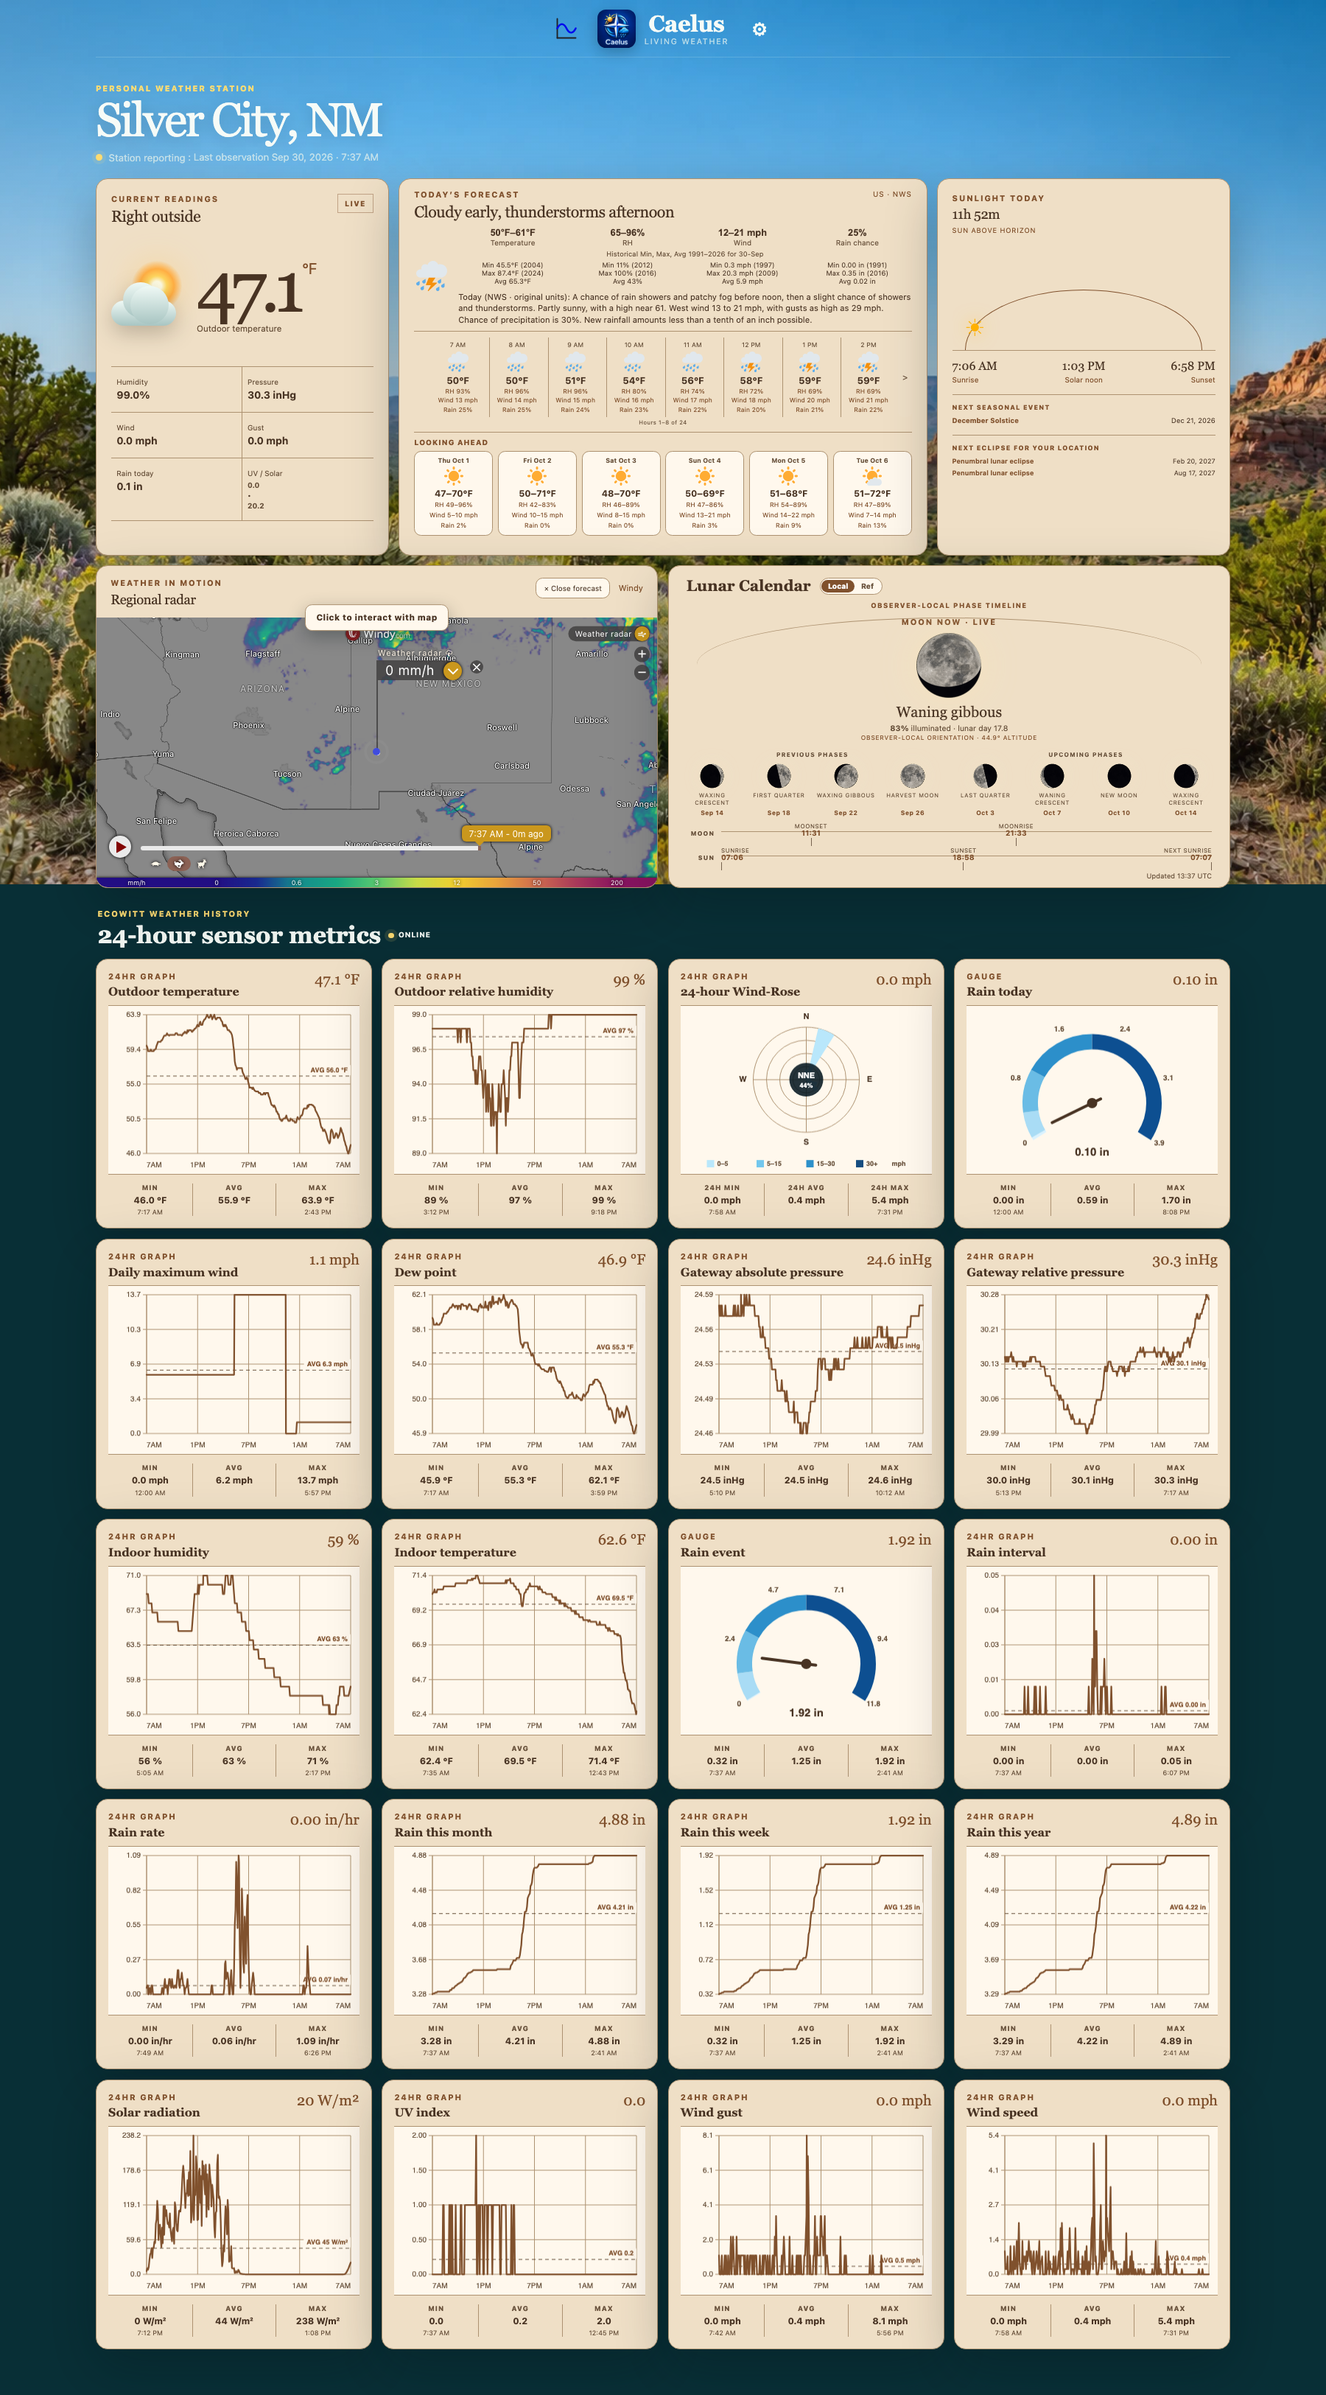
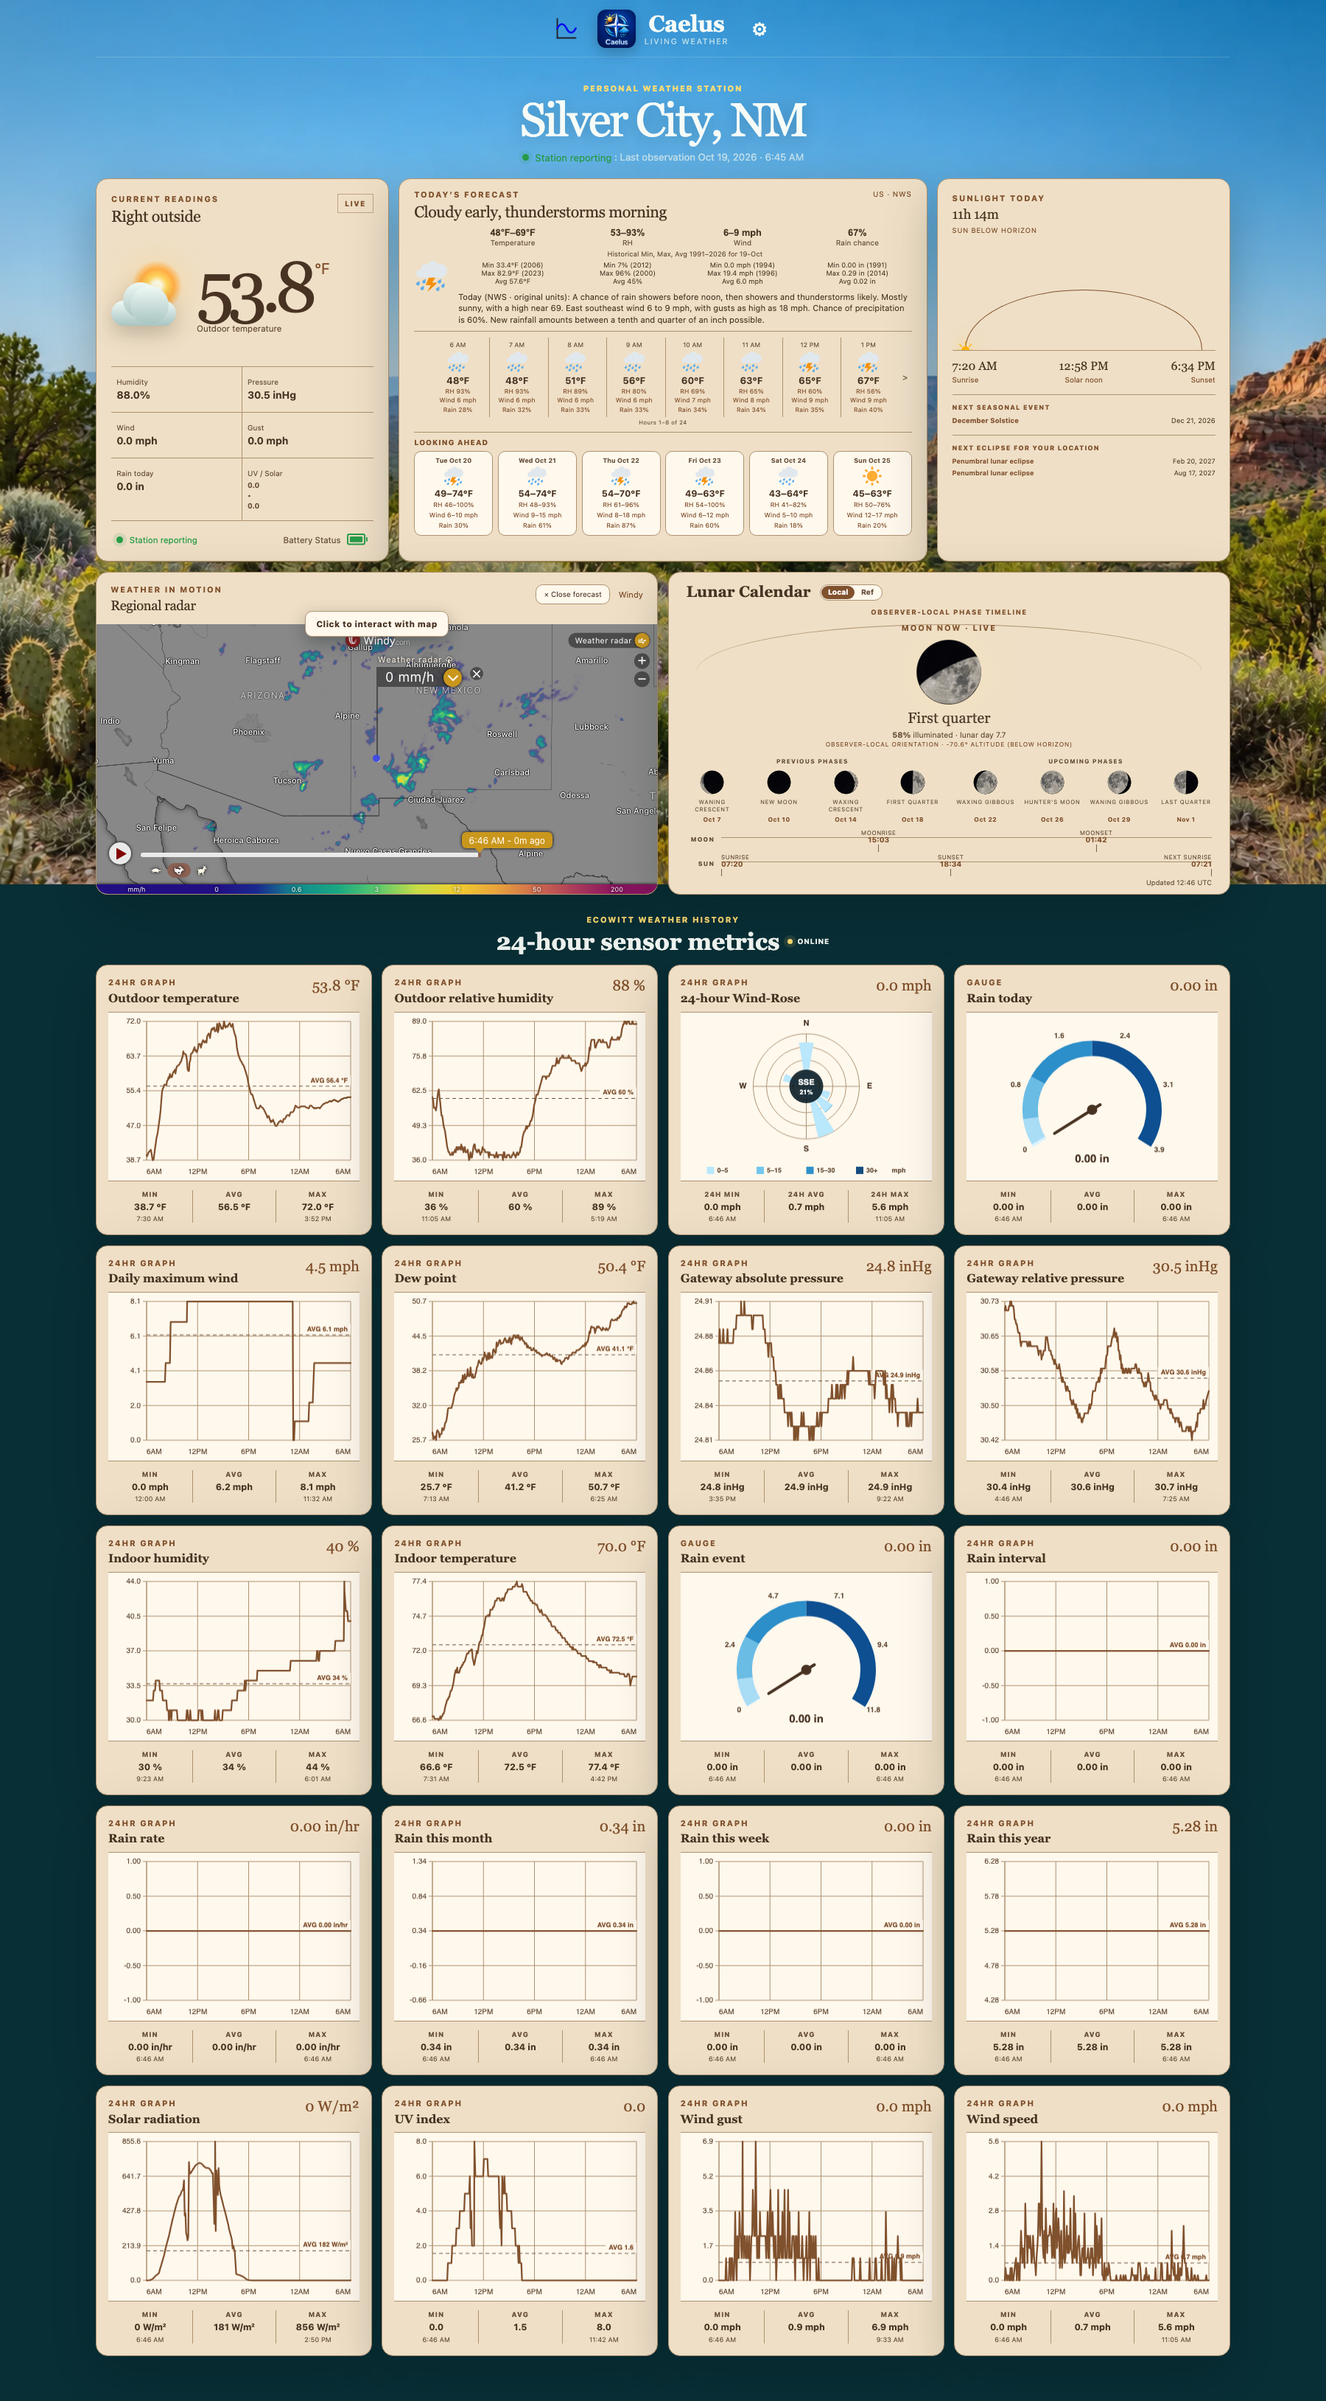
fix: protect gateway diagnostics and refresh dashboard presentation (#46)

diff --git a/static/styles.css b/static/styles.css
@@ -139,7 +139,8 @@ a { color: inherit; }
 .settings-trigger:hover { color: var(--accent); }
 
 .dashboard-shell { width: min(1540px, calc(100% - 3rem)); margin: 0 auto; padding: 2.2rem 0 3rem; }
-.station-intro { display: flex; align-items: end; justify-content: space-between; gap: 2rem; margin-bottom: 1.25rem; }
+.station-intro { display: flex; align-items: end; justify-content: center; gap: 2rem; margin-bottom: 1.25rem; text-align: center; }
+.station-intro > div { width: 100%; min-width: 0; }
 .eyebrow { margin: 0 0 0.35rem; color: var(--accent); font-size: 0.68rem; font-weight: 750; letter-spacing: 0.17em; text-transform: uppercase; }
 .station-intro h1 { margin: 0; font: 500 clamp(2rem, 4vw, 4rem)/0.98 Georgia, serif; letter-spacing: -0.045em; text-shadow: 0 4px 24px rgba(0, 0, 0, 0.2); }
 .station-subtitle { margin: 0.65rem 0 0; color: var(--muted); font-size: 0.83rem; }
@@ -421,8 +422,9 @@ a { color: inherit; }
 .map-row .lunar-timeline-footer > small { text-align: right; }
 .map-row .map-heading { flex-wrap: wrap; }
 .weather-history { padding: 0.85rem 0; }
-.weather-history-heading { display: flex; align-items: end; justify-content: space-between; gap: 1rem; margin-bottom: 0.85rem; padding: 0 0.15rem; }
-.weather-history-heading h2 { display: flex; align-items: center; flex-wrap: wrap; gap: 0.65rem; margin: 0.15rem 0 0; font: 600 clamp(1.4rem, 2.4vw, 2rem) Georgia, serif; }
+.weather-history-heading { display: flex; align-items: end; justify-content: center; gap: 1rem; margin-bottom: 0.85rem; padding: 0 0.15rem; text-align: center; }
+.weather-history-heading > div { width: 100%; min-width: 0; }
+.weather-history-heading h2 { display: flex; align-items: center; justify-content: center; flex-wrap: wrap; gap: 0.65rem; margin: 0.15rem 0 0; font: 600 clamp(1.4rem, 2.4vw, 2rem) Georgia, serif; }
 .sensor-online-status { display: inline-flex; align-items: center; gap: 0.4rem; color: var(--muted); font: 700 0.62rem/1 system-ui, sans-serif; letter-spacing: 0.08em; text-transform: uppercase; }
 .sensor-online-status .status-dot { width: 0.45rem; height: 0.45rem; }
 .sensor-online-status.is-online { color: var(--text); }

diff --git a/tests/test_routes.py b/tests/test_routes.py
@@ -1,4 +1,5 @@
 import io
+import logging
 from html import unescape
 from pathlib import Path
 from urllib.parse import urljoin
@@ -8,10 +9,12 @@ from fastapi.staticfiles import StaticFiles
 from fastapi.templating import Jinja2Templates
 from fastapi.testclient import TestClient
 from PIL import Image
+import pytest
 
 import caelus.routes as routes_module
 from caelus import __version__
 from caelus.astronomy import FULL_MOON_NAMES, moon_phase_context
+from caelus.gateway import EcowittGateway, EcowittGatewayError
 from caelus.routes import format_observation_time, register_routes
 from caelus.settings import AppSettings
 from caelus.theme_manager import ThemeManager
@@ -565,6 +568,67 @@ def test_ecowitt_mutations_require_csrf() -> None:
     )
 
     assert response.status_code == 403
+
+
+@pytest.mark.parametrize("endpoint", ["discover", "save"])
+def test_ecowitt_errors_keep_diagnostics_in_logs(endpoint, caplog) -> None:
+    diagnostic = "ConnectionError: private-gateway.example:8767 /private/operator/config"
+
+    class FailingGateway:
+        def discover(self, gateway_url):
+            raise EcowittGatewayError(diagnostic)
+
+        def discover_for_save(self, gateway_url):
+            raise EcowittGatewayError(diagnostic)
+
+    app = make_app()
+    app.state.gateway = FailingGateway()
+    original_url = app.state.settings.gateway_url
+    with caplog.at_level(logging.WARNING, logger="caelus.routes"):
+        response = TestClient(app).post(
+            f"/api/ecowitt/{endpoint}",
+            json={"gateway_url": "http://gateway.local", "csrf_token": "test-token"},
+        )
+    assert response.status_code == 400
+    assert response.json()["ok"] is False
+    assert "see server logs" in response.json()["error"]
+    for private_value in (diagnostic, "private-gateway.example", "/private/operator/config"):
+        assert private_value not in response.text
+    assert diagnostic in caplog.text
+    assert app.state.settings.gateway_url == original_url
+    assert app.state.poller.poll_calls == 0
+
+
+def test_ecowitt_status_hides_diagnostics_without_changing_private_state() -> None:
+    app = make_app()
+    gateway = EcowittGateway(app.state.settings)
+    app.state.gateway = gateway
+    diagnostic = "private-gateway.example /private/operator/config"
+    fields = ("last_error", "connection_error", "inventory_error")
+    gateway.last_status.update({field: diagnostic for field in fields})
+    client = TestClient(app)
+    response = client.get("/api/ecowitt/status")
+    assert response.status_code == 200
+    assert diagnostic not in response.text
+    for field in fields:
+        assert "See server logs" in response.json()[field]
+        assert gateway.last_status[field] == diagnostic
+    gateway.last_status.update({field: "" for field in fields})
+    cleared = client.get("/api/ecowitt/status").json()
+    assert all(cleared[field] == "" for field in fields)
+
+
+def test_manual_poll_requires_csrf_before_calling_poller() -> None:
+    app = make_app()
+    client = TestClient(app)
+    for data in ({}, {"csrf_token": "incorrect"}):
+        response = client.post("/poll", data=data, headers={"Origin": "https://untrusted.example"})
+        assert response.status_code == 403
+    assert app.state.poller.poll_calls == 0
+    response = client.post("/poll", data={"csrf_token": "test-token"})
+    assert response.status_code == 200
+    assert response.json()["status"] == "ok"
+    assert app.state.poller.poll_calls == 1
 
 
 def test_dashboard_tolerates_astronomy_payload_from_running_older_code(monkeypatch) -> None:

diff --git a/caelus/routes.py b/caelus/routes.py
@@ -1,5 +1,6 @@
 import asyncio
 import json
+import logging
 import secrets
 from dataclasses import fields, replace
 from datetime import datetime, timedelta, timezone
@@ -35,6 +36,7 @@ from caelus.theme_manager import (
 )
 
 GRAPH_RANGE_HOURS = {1, 6, 12, 24, 72, 168, 336, 696}
+logger = logging.getLogger(__name__)
 FAVICON_SVG = (
     Path(__file__).resolve().parents[1]
     / "static"
@@ -411,8 +413,12 @@ def register_routes(app: FastAPI) -> None:
             result = await asyncio.to_thread(
                 app.state.gateway.discover, payload.get("gateway_url")
             )
-        except EcowittGatewayError as exc:
-            return JSONResponse({"ok": False, "error": str(exc)}, status_code=400)
+        except EcowittGatewayError:
+            logger.warning("Ecowitt discovery failed", exc_info=True)
+            return JSONResponse(
+                {"ok": False, "error": "Could not discover the Ecowitt gateway. Check its address and connection; see server logs for details."},
+                status_code=400,
+            )
         return JSONResponse(result)
 
     @app.post("/api/ecowitt/save")
@@ -437,8 +443,12 @@ def register_routes(app: FastAPI) -> None:
             discovery = await asyncio.to_thread(
                 discover_for_save, payload.get("gateway_url")
             )
-        except EcowittGatewayError as exc:
-            return JSONResponse({"ok": False, "error": str(exc)}, status_code=400)
+        except EcowittGatewayError:
+            logger.warning("Ecowitt gateway validation before saving failed", exc_info=True)
+            return JSONResponse(
+                {"ok": False, "error": "Could not validate the Ecowitt gateway. Check its address and connection; see server logs for details."},
+                status_code=400,
+            )
 
         settings: AppSettings = app.state.settings
         candidate = replace(settings)
@@ -572,7 +582,10 @@ def register_routes(app: FastAPI) -> None:
         return Response(payload, media_type=content_type)
 
     @app.post("/poll")
-    async def poll_gateway() -> Dict[str, Any]:
+    async def poll_gateway(csrf_token: str = Form("")) -> Dict[str, Any]:
+        """Poll the gateway only after validating the browser mutation token."""
+        if not secrets.compare_digest(csrf_token, app.state.csrf_token):
+            raise HTTPException(status_code=403, detail="invalid CSRF token")
         reading = await asyncio.to_thread(app.state.poller.poll_once)
         if reading is None:
             return {"status": "error", "message": "gateway fetch failed"}

diff --git a/tests/test_gateway.py b/tests/test_gateway.py
@@ -275,11 +275,13 @@ def test_repeated_connection_failure_recovers_and_returns_to_direct_requests(mon
     assert gateway.fetch() == {}
     assert gateway.fetch() == {}
     assert not recovered
-    assert 'No route to host' in gateway.status()['last_error']
+    assert 'No route to host' in gateway.last_status['last_error']
+    assert 'No route to host' not in gateway.status()['last_error']
     assert gateway.fetch()['common_list']
     assert gateway.status()['state'] == 'online'
     assert gateway.status()['recovery_active']
-    assert 'No route to host' in gateway.status()['connection_error']
+    assert 'No route to host' in gateway.last_status['connection_error']
+    assert 'No route to host' not in gateway.status()['connection_error']
     assert recovered == ['get_livedata_info']
     # Another recovered poll must not reset the failed direct transport's count.
     assert gateway.fetch()['common_list']
@@ -311,8 +313,9 @@ def test_failed_recovery_keeps_retrying_and_reports_both_errors(monkeypatch):
         assert gateway.fetch() == {}
     status = gateway.status()
     assert status['state'] == 'offline'
-    assert 'LAN timed out' in status['last_error']
-    assert 'fresh-process recovery failed' in status['last_error']
+    assert 'LAN timed out' in gateway.last_status['last_error']
+    assert 'fresh-process recovery failed' in gateway.last_status['last_error']
+    assert status['last_error'] == 'Gateway request failed. See server logs for details.'
 
 
 def test_http_errors_do_not_launch_recovery_workers(monkeypatch):
@@ -332,7 +335,8 @@ def test_http_errors_do_not_launch_recovery_workers(monkeypatch):
     )
     for _ in range(4):
         assert gateway.fetch() == {}
-    assert '503 Service Unavailable' in gateway.status()['last_error']
+    assert '503 Service Unavailable' in gateway.last_status['last_error']
+    assert '503 Service Unavailable' not in gateway.status()['last_error']
 
 
 def test_inventory_pages_have_independent_recovery_counts(monkeypatch):

diff --git a/caelus/gateway.py b/caelus/gateway.py
@@ -464,9 +464,17 @@ class EcowittGateway:
         return self.discover(base_url)
 
     def status(self) -> dict[str, Any]:
-        """Return safe configured and runtime gateway status."""
+        """Return runtime status with fixed messages instead of private diagnostics."""
+        public_status = dict(self.last_status)
+        for field, message in {
+            "last_error": "Gateway request failed. See server logs for details.",
+            "connection_error": "Direct gateway connection failed. See server logs for details.",
+            "inventory_error": "Gateway sensor inventory is unavailable. See server logs for details.",
+        }.items():
+            if public_status.get(field):
+                public_status[field] = message
         return {
-            **self.last_status,
+            **public_status,
             "recovery_active": self.settings.gateway_enabled and any(
                 key.startswith(self.settings.gateway_url.rstrip("/") + "/")
                 for key in tuple(self._recovery_endpoints)
@@ -525,6 +533,8 @@ class EcowittGateway:
                     self.last_status["inventory_error"] = ""
                 except EcowittGatewayError as exc:
                     self.last_status["inventory"] = []
+                    if not self.last_status.get("inventory_error"):
+                        logger.warning("Ecowitt sensor inventory unavailable: %s", exc)
                     self.last_status["inventory_error"] = str(exc)
             if not reading or not any(value is not None for value in map_gateway_reading(
                 reading, rain_source=self.settings.gateway_rain_source

diff --git a/caelus/__init__.py b/caelus/__init__.py
@@ -1,1 +1,1 @@
-__version__ = "v0.26.292.1"
+__version__ = "v0.26.292.4"

diff --git a/README.md b/README.md
@@ -86,9 +86,11 @@ can still reach the gateway. The worker has an eight-second deadline and a
 returns to it automatically when it succeeds. HTTP errors and malformed data
 continue through normal polling retries.
 
-`/api/ecowitt/status` exposes `recovery_active`, the underlying `connection_error`,
-and `last_error` when recovery also fails. An active recovery path can still
-report the gateway online when it is receiving valid readings. Connection-loss
+`/api/ecowitt/status` exposes `recovery_active` and fixed summaries in
+`connection_error`, `inventory_error`, and `last_error` when those failures occur.
+Full exception diagnostics remain in server logs rather than browser responses.
+An active recovery path can still report the gateway online when it is receiving
+valid readings. Connection-loss
 and recovery transitions are logged without repeating an outage warning on
 every poll. For a default macOS installation, inspect
 `/Users/<username>/Caelus/data/desktop-launch.log`; saved settings and observations
@@ -99,6 +101,9 @@ Polling starts independently of optional service failures. Forecast warmup runs
 in the background so an unavailable provider cannot hold up server readiness;
 later forecast and historical-weather requests retry and retain available cached
 data. Shutdown stops polling even if another service fails during cleanup.
+
+Manual `POST /poll` requests require the dashboard's `csrf_token` form field,
+like other browser mutation requests.
 
 `/healthz` reports whether the polling task is running; use the gateway status
 and latest reading timestamp to assess data freshness. A disconnected gateway,

diff --git a/docs/user_guide.md b/docs/user_guide.md
@@ -8,7 +8,7 @@ Caelus is a local weather dashboard and history service for an Ecowitt-compatibl
 
 This guide is for day-to-day users. You do not need to understand Python, FastAPI, or SQLite to operate Caelus.
 
-The dashboard and Location, Station, and Data & Map screenshots were updated from a running Caelus station on September 30, 2026. Other screenshots, including the Mobile Operation graphics, were captured on September 9, 2026. The Location and Station screenshots use example coordinates and a documentation-only gateway address; enter your own values during setup. Your location, readings, gateway model, forecast, lunar view, and available metrics will differ.
+The dashboard overview and full-dashboard screenshots were updated from a running Caelus station on October 19, 2026, and show the centered title block and sensor heading. The remaining dashboard and Location, Station, and Data & Map screenshots were updated on September 30, 2026. Other screenshots, including the Mobile Operation graphics, were captured on September 9, 2026. The Location and Station screenshots use example coordinates and a documentation-only gateway address; enter your own values during setup. Your location, readings, gateway model, forecast, lunar view, and available metrics will differ.
 
 ## Open Caelus
 
